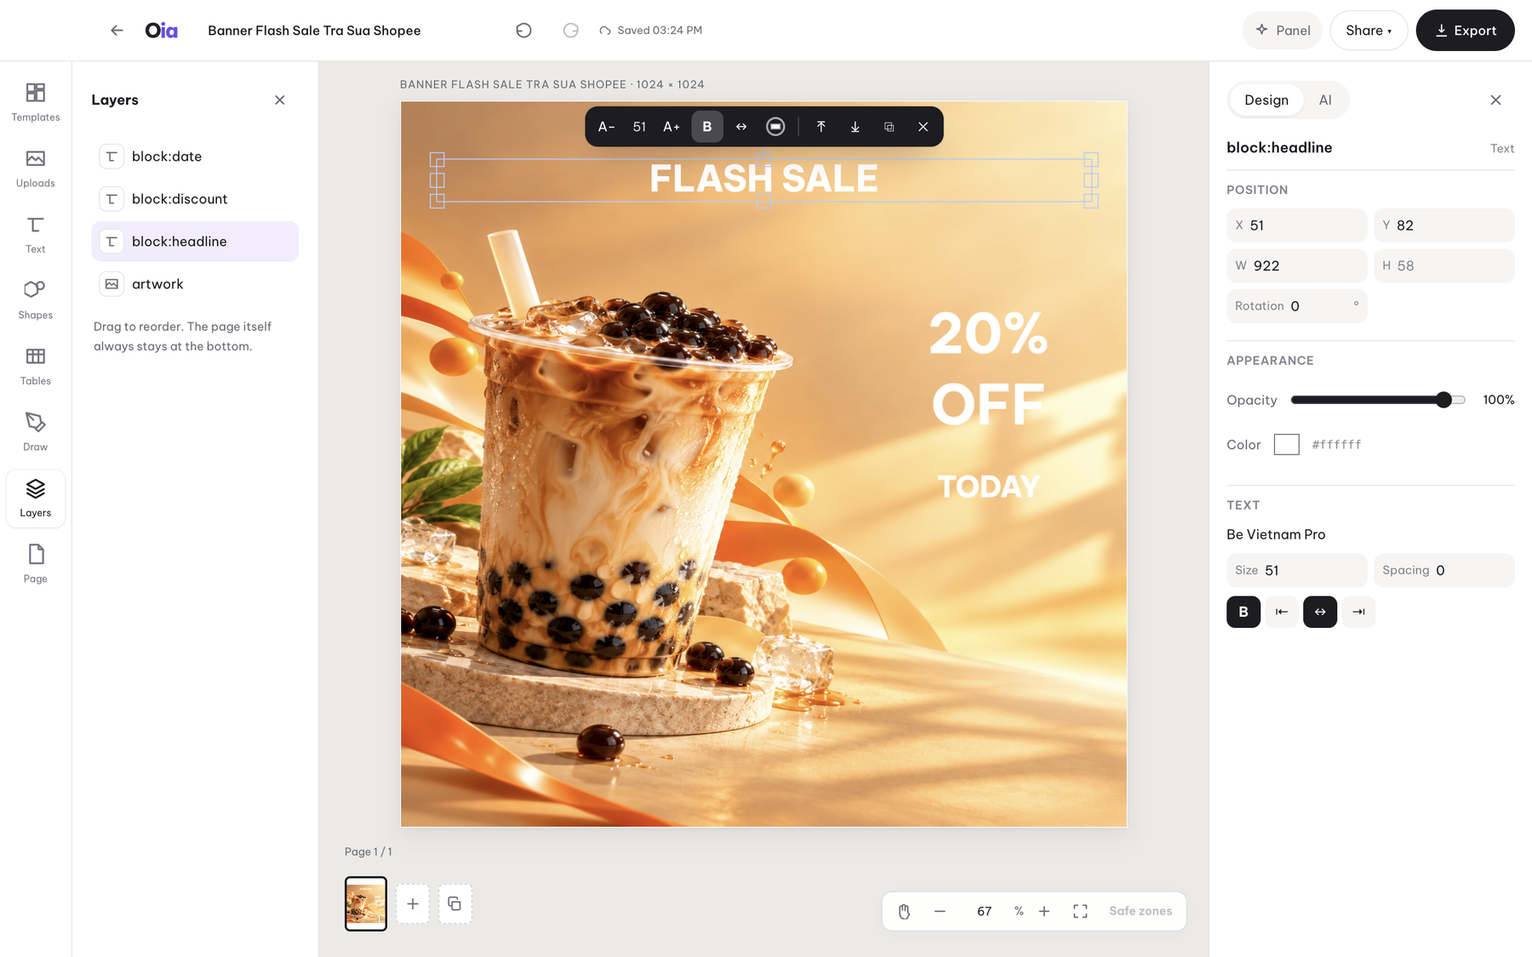
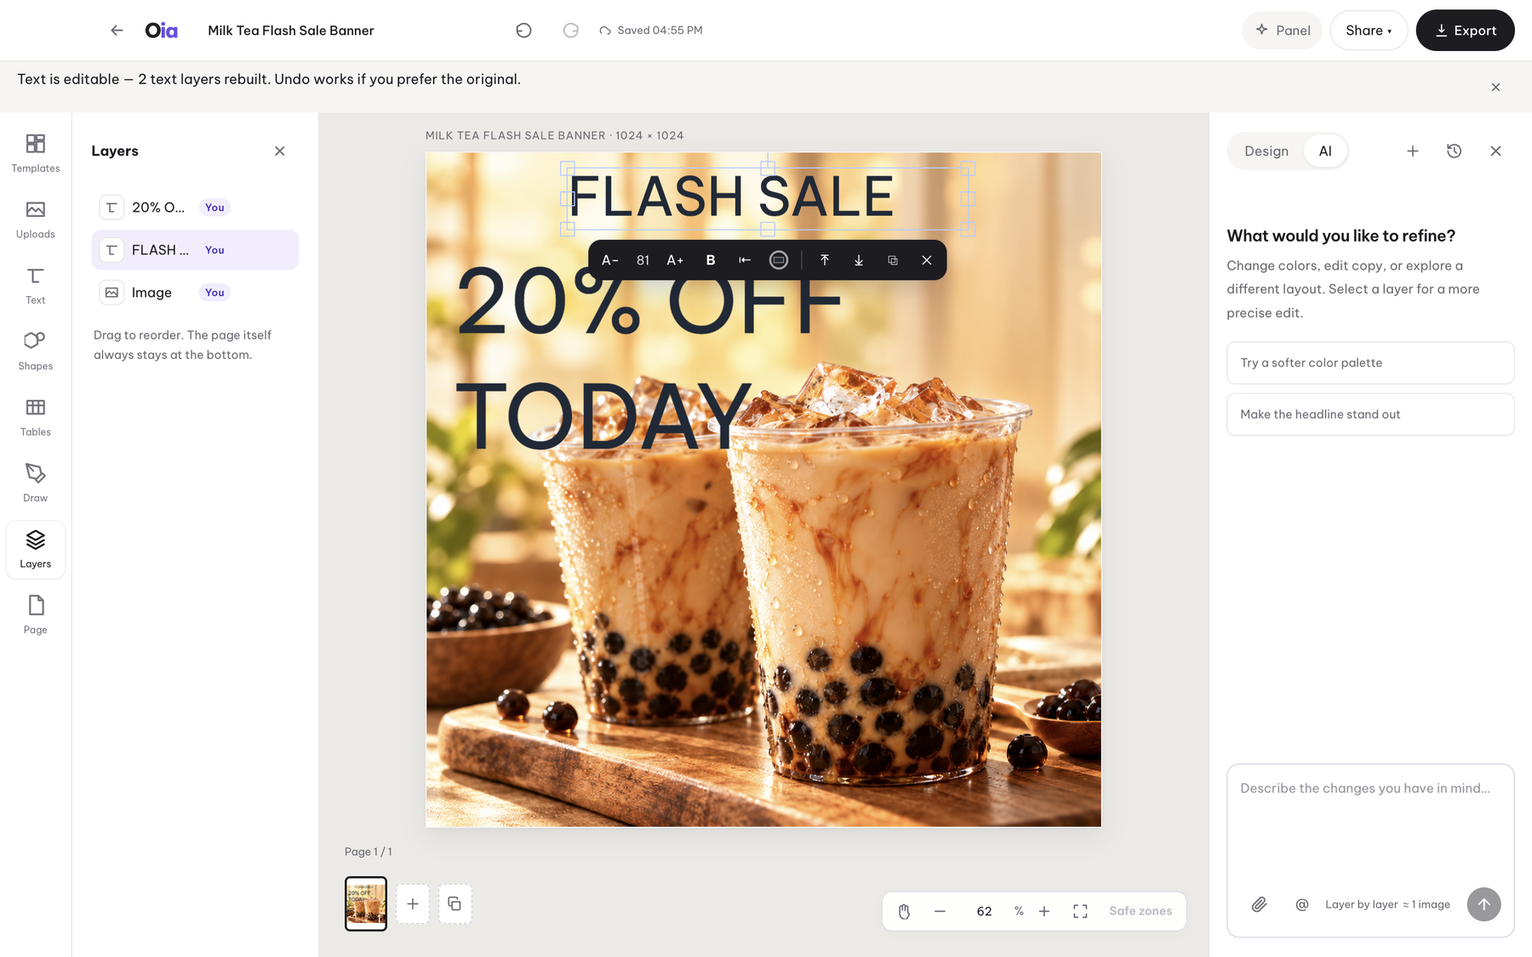
feat(d16): text-in-image by default + one-click "Make text editable" in the editor
Owner direction (2026-11-02, D16 in desktop-only-reorg.md): the
reference competitor (surgepix.ai) renders copy INTO the image with
the model's typography — our default text-layer overlays (plain
white Be Vietnam Pro bold) look bad next to it. "Xau la khong on."

Both halves already existed in the schema (TP.3 "poster" bakes vs
"clean-plate"); this wires the default and the escape hatch:

- Home composer: "Editable text right away" now defaults OFF —
  poster mode generates with the copy baked in (toggle keeps the
  clean-plate path for users who want layers immediately)
- Planner learns poster mode: put every text line into imagePrompt
  verbatim with placement/typography hints, same language as the
  request, NO blocks[]; scene builder never places overlay blocks
  in poster mode (a half-complying planner cannot double the text)
- Editor: "Make text editable" on image selections — exports the
  page, runs the deconstruct task (cost dialog: ~1 image + 1 read,
  Stop keeps watching a late result per B1 teardown), then swaps
  the page scene through replaceCurrentScene (undo/history/save
  ride the normal path); success notice reports the layer count

Trade-off recorded in D16: editing baked copy costs quota (1 image
+ 1 read) vs free text-layer edits — the price of default-beautiful
typography. Shot gate pins mode explicitly (index.ts) so nothing
broke; designer tests updated: two block-placement tests now pin
clean-plate explicitly, two new tests pin the poster contract
[…]

diff --git a/apps/desktop/src/renderer/views/Editor.tsx b/apps/desktop/src/renderer/views/Editor.tsx
@@ -1,6 +1,6 @@
 import { useCallback, useEffect, useMemo, useRef, useState, type ReactNode, Component } from "react";
 import type * as fabricNS from "fabric";
-import type { SceneCanvas, ChatEvent, Template } from "@oia/schema";
+import type { SceneCanvas, ChatEvent, Template, DeconstructText } from "@oia/schema";
 import {
   SIZE_PRESETS, SHAPES, TEXT_PRESET_SPECS, planExport, resizeWithLock,
   addPage, removePage as removePageModel, duplicatePage, blankScene, applySizeToAllPages,
@@ -20,6 +20,7 @@ import { LayersPanel } from "../components/LayersPanel.js";
 import { Inspector } from "../components/Inspector.js";
 import { ContextToolbar } from "../components/ContextToolbar.js";
 import { stepsFromTimeline } from "../lib/run-steps.js";
+import { deconstructScene } from "../lib/deconstruct-scene.js";
 import { oia, bridgeErrorMessage } from "../lib/bridge.js";
 import { clampZoom } from "../lib/zoom.js";
 import { presentErrorEn } from "../lib/errors.js";
@@ -614,6 +615,58 @@ export function Editor({ projectId: initialProjectId, onExit, onOpenProject }: E
     setRightTab("ai");
     mentionSelection();
   }
+  /** D16 poster-mode edit path: the copy is baked into the artwork — deconstruct
+   *  THIS page (≈ 1 image + 1 read) into a clean plate + native text layers.
+   *  Mirrors the Workspace B1 flow (upload → task → poll), then swaps the page
+   *  scene through replaceCurrentScene so undo/history/save all behave. */
+  const [textEditAsk, setTextEditAsk] = useState(false);
+  const [textEditBusy, setTextEditBusy] = useState(false);
+  const textEditTaskRef = useRef<string | null>(null);
+  const textEditRunRef = useRef(0);
+  async function cancelTextEdit() {
+    const id = textEditTaskRef.current;
+    if (id) await oia().cancelTask(id).catch(() => {});
+    setTextEditAsk(false);
+  }
+  async function runMakeTextEditable() {
+    const c = fabricRef.current;
+    if (!c || textEditBusy) return;
+    const myRun = ++textEditRunRef.current;
+    const size = sceneDimensions.current;
+    setTextEditBusy(true); setNotice("");
+    try {
+      // export the page as-is — the model reads exactly what the seller sees
+      const dataUrl = c.toDataURL({ format: "png", multiplier: 1, enableRetinaScaling: false });
+      const bytes = Uint8Array.from(atob(dataUrl.split(",")[1] ?? ""), (ch) => ch.charCodeAt(0));
+      const up = await oia().uploadAsset("page.png", bytes);
+      const started = await oia().submitTask("deconstruct", { fileUrl: up.url });
+      textEditTaskRef.current = started.taskId;
+      let final = started.progress === "processing" ? null : started;
+      for (let i = 0; i < 150 && !final; i++) { // 2s×150 = 5 min cap, then an honest error
+        await new Promise((r) => setTimeout(r, 2000));
+        const t = await oia().getTask(started.taskId);
+        if (!t) throw new Error("task vanished");
+        if (t.progress !== "processing") final = t;
+      }
+      if (!final) throw new Error("timed out after 5 minutes");
+      if (final.progress !== "succeeded" || !final.taskResult?.download) {
+        throw new Error(final.taskNote || final.msg || (final.progress === "failed" ? "deconstruct failed" : "the page was not changed"));
+      }
+      const texts = (final.taskResult.texts ?? []) as DeconstructText[];
+      await replaceCurrentScene(deconstructScene({ imageUrl: final.taskResult.download, w: size.width, h: size.height, texts }));
+      if (textEditRunRef.current !== myRun) return; // a newer run owns the UI
+      setTextEditAsk(false);
+      setNotice(`Text is editable — ${texts.length} text layer${texts.length === 1 ? "" : "s"} rebuilt. Undo works if you prefer the original.`);
+    } catch (e) {
+      if (textEditRunRef.current === myRun) {
+        setTextEditAsk(false);
+        setNotice(bridgeErrorMessage(e, "The text could not be made editable. Please try again."));
+      }
+    } finally {
+      textEditTaskRef.current = null;
+      if (textEditRunRef.current === myRun) setTextEditBusy(false);
+    }
+  }
   /** R5 Replace image: new pixels, same box on the page; the swapped layer becomes the user's (TP.10). */
   async function replaceSelectedImage(file: File) {
     const c = fabricRef.current;
@@ -1064,7 +1117,7 @@ export function Editor({ projectId: initialProjectId, onExit, onOpenProject }: E
               <div className="frameLabel" aria-hidden="true">{projectName || "Artboard"} · {customW} × {customH}</div>
               <div className="canvasWrap" data-transparent={activeClipFill === "transparent" ? "true" : undefined}>
                 <canvas ref={canvasElRef} width={500} height={750} />
-                <ContextToolbar canvas={canvas} onEditWithAi={editSelectionWithAi} onReplaceImage={(f) => void replaceSelectedImage(f)} onDuplicate={() => void duplicateSelection()} />
+                <ContextToolbar canvas={canvas} onEditWithAi={editSelectionWithAi} onReplaceImage={(f) => void replaceSelectedImage(f)} onDuplicate={() => void duplicateSelection()} onMakeTextEditable={() => setTextEditAsk(true)} />
                 {guidesOn && activeGuide && guideRects(activeGuide.zones, customW, customH).map((r) => (
                   <div
                     key={r.edge}
@@ -1128,6 +1181,18 @@ export function Editor({ projectId: initialProjectId, onExit, onOpenProject }: E
       </div>
 
       {/* Export dialog (BR-ED5) */}
+      {textEditAsk && (
+        <Dialog onClose={() => { if (!textEditBusy) setTextEditAsk(false); }} label="Make text editable">
+          <h3>Make this text editable?</h3>
+          <p>Oia reads the text on this page, cleans it off the artwork, and rebuilds each line as an editable text layer. Everything else stays in place.</p>
+          {!imageMock && <p className="hintP" data-testid="text-edit-cost">≈ 1 image + 1 read</p>}
+          {textEditBusy && <p className="hintP">Reading the text…</p>}
+          <div className="dialogActions">
+            <button className="secondaryBtn" onClick={() => void cancelTextEdit()}>{textEditBusy ? "Stop" : "Cancel"}</button>
+            <button className="primaryBtn" data-testid="text-edit-confirm" disabled={textEditBusy} onClick={() => void runMakeTextEditable()}>Make text editable</button>
+          </div>
+        </Dialog>
+      )}
       {exportOpen && (
         <Dialog onClose={() => setExportOpen(false)} labelledBy="export-title">
           <div className="sectionHeading"><h3 id="export-title" style={{ margin: 0 }}>Export design</h3><button autoFocus className="iconBtn" aria-label="Close export" onClick={() => setExportOpen(false)}><I d={icons.x} size={18} /></button></div>

diff --git a/packages/agent/test/designer.test.ts b/packages/agent/test/designer.test.ts
@@ -184,6 +184,37 @@ describe("BR-CTRL composer controls", () => {
     for await (const _ of runDesignerAgent({ prompt: "make it blue", referenceImages: ["https://ref/1.png"] }, { llm: llmStub, image: imgSpy })) void _;
     expect(gotRefs).toEqual(["https://ref/1.png"]);
   });
+  it("D16 poster mode: the copy is baked by the model — planner blocks are NEVER placed as overlays (no doubled text)", async () => {
+    const planWithBlocks = JSON.stringify({
+      title: "Milk tea flash sale",
+      imagePrompt: "milk tea banner with bold condensed 'FLASH SALE' and '20% OFF TODAY' rendered large",
+      blocks: [
+        { role: "headline", text: "FLASH SALE" },
+        { role: "discount", text: "20% OFF" },
+      ],
+    });
+    let sysPrompt = "";
+    const llmSpy: LlmProvider = { name: "s", capabilities: stubCaps, async isAvailable() { return { ok: true }; }, async chat(m) { sysPrompt = m[0].content; return planWithBlocks; } };
+    const evs: ChatEvent[] = [];
+    for await (const ev of runDesignerAgent({ prompt: "milk tea flash sale banner" }, { llm: llmSpy, image })) evs.push(ev);
+    expect(sysPrompt).toContain("Poster mode"); // the planner was told to bake the copy
+    const canvas = evs.flatMap((e) => e.renderData.msgMeta.filter((m) => m.type === "canvas")).at(-1) as { canvas: { objects: { type: string; name?: string }[] } } | undefined;
+    expect(canvas?.canvas.objects.filter((o) => o.type === "Textbox")).toEqual([]); // half-complying planner ≠ doubled text
+    expect(canvas?.canvas.objects.some((o) => o.name === "artwork")).toBe(true);
+  });
+  it("D16 clean-plate mode: blocks still land as editable overlays", async () => {
+    const planWithBlocks = JSON.stringify({
+      title: "Milk tea flash sale",
+      imagePrompt: "text-free milk tea banner",
+      blocks: [{ role: "discount", text: "20% OFF" }],
+    });
+    const evs: ChatEvent[] = [];
+    for await (const ev of runDesignerAgent({ prompt: "milk tea flash sale banner", mode: "clean-plate" }, { llm: stubLlmReturning(planWithBlocks), image })) evs.push(ev);
+    const canvas = evs.flatMap((e) => e.renderData.msgMeta.filter((m) => m.type === "canvas")).at(-1) as { canvas: { objects: { type: string; name?: string }[] } } | undefined;
+    const boxes = canvas?.canvas.objects.filter((o) => o.type === "Textbox") ?? [];
+    expect(boxes.length).toBe(1);
+    expect(boxes[0]).toMatchObject({ name: "block:discount" });
+  });
   it("narrative counts refs with correct pluralization — '1 reference image' / '2 reference images' (live grammar fix)", async () => {
     const imgSpy: ImageProvider = { name: "s", capabilities: stubCaps, async isAvailable() { return { ok: true }; }, async generate() { return { url: "https://x/y.png", provider: "s", model: "m" }; } };
     const llmStub: LlmProvider = { name: "s", capabilities: stubCaps, async isAvailable() { return { ok: true }; }, async chat() { return planSpy; } };
@@ -249,17 +280,17 @@ describe("STAGE-0 TP.1: blocks → named editable textboxes placed in copy zones
     expect(box.fontFamily).toBe("Be Vietnam Pro");
   });
 
-  it("legacy copy plan still yields one editable textbox (backward compat)", async () => {
+  it("legacy copy plan still yields one editable textbox (backward compat — clean-plate; D16: poster bakes, blocks never overlay)", async () => {
     const out: ChatEvent[] = [];
-    for await (const ev of runDesignerAgent({ prompt: "poster" }, { llm, image })) out.push(ev);
+    for await (const ev of runDesignerAgent({ prompt: "poster", mode: "clean-plate" }, { llm, image })) out.push(ev);
     const canvas = out.flatMap((e) => e.renderData.msgMeta).at(-1)!.canvas;
     expect(canvas.objects.filter((o) => o.type === "Textbox").map((o) => o.name)).toEqual(["block:copy"]);
   });
 
-  it("multi-page: blocks land on the FIRST page only (current pi===0 rule)", async () => {
+  it("multi-page: blocks land on the FIRST page only (current pi===0 rule, clean-plate)", async () => {
     const out: ChatEvent[] = [];
     const multi = JSON.stringify({ title: "T", imagePrompt: "p", imagePrompts: ["p1", "p2"], blocks: [{ role: "price", text: "20%" }] });
-    for await (const ev of runDesignerAgent({ prompt: "poster", pages: 2 }, { llm: stubLlmReturning(multi), image })) out.push(ev);
+    for await (const ev of runDesignerAgent({ prompt: "poster", pages: 2, mode: "clean-plate" }, { llm: stubLlmReturning(multi), image })) out.push(ev);
     const canvases = out.flatMap((e) => e.renderData.msgMeta);
     expect(canvases[0].canvas.objects.filter((o) => o.type === "Textbox")).toHaveLength(1);
     expect(canvases[1].canvas.objects.filter((o) => o.type === "Textbox")).toHaveLength(0);

diff --git a/apps/desktop/src/renderer/views/Home.tsx b/apps/desktop/src/renderer/views/Home.tsx
@@ -96,7 +96,7 @@ export function Home({ resumeSession, onOpenProject, autoFocus = false, initialP
   const [mockMode, setMockMode] = useState(false);
   /** B7 — non-empty while any store's LAST disk write failed; null once saving recovers. */
   const [writeFailures, setWriteFailures] = useState<{ file: string; failedWrites: number }[] | null>(null);
-  const [editableText, setEditableText] = useState(true); // clean-plate default ("editable text right away")
+  const [editableText, setEditableText] = useState(false); // D16: poster (text baked in-image, best-looking type) is the default; the toggle opts into clean-plate
   // C1: conversation pin (A1 VA-9) — every run on this mount joins ONE session;
   // the outline stub and the deck result land in the same conversation (OC-8)
   const [sessionId, setSessionId] = useState<number | null>(resumeSession ?? null);
@@ -481,7 +481,7 @@ export function Home({ resumeSession, onOpenProject, autoFocus = false, initialP
               {OUTLINE_SWITCH_LABEL}
             </label>
             <label className="switchRow">
-              <button type="button" role="switch" aria-checked={editableText} aria-label={MODE_TOGGLE_LABEL} title="Generated banners arrive with separate editable text layers" className={`switch ${editableText ? "on" : ""}`} onClick={() => setEditableText(!editableText)} />
+              <button type="button" role="switch" aria-checked={editableText} aria-label={MODE_TOGGLE_LABEL} title="Off: text is rendered inside the image — best-looking type; make it editable later from the editor. On: banners arrive with separate editable text layers" className={`switch ${editableText ? "on" : ""}`} onClick={() => setEditableText(!editableText)} />
               {MODE_TOGGLE_LABEL}
             </label>
           </div>

diff --git a/packages/agent/src/designer.ts b/packages/agent/src/designer.ts
@@ -206,7 +206,8 @@ export async function* runDesignerAgent(
             + (input.brandGuidance ? `\nBrand rules the output MUST follow:\n${input.brandGuidance}` : "")
             + (mode === "clean-plate"
               ? `\nClean-plate mode: the imagePrompt must describe text-free artwork (no added typography; product packaging lettering is preserved) — ALL copy goes into blocks[].`
-              : ""),
+              : `\nPoster mode (D16): the image model RENDS the copy — put every text line into imagePrompt verbatim with placement and typography hints (e.g. \"bold condensed 'FLASH SALE' across the top, '20% OFF TODAY' large beneath it\"); write ALL copy in the SAME language as the user's request — an English request gets English-only copy, never mixed; do NOT emit blocks[] — no overlay text will be added on top.`
+            ),
         },
         { role: "user", content: input.prompt },
       ],
@@ -300,8 +301,11 @@ export async function* runDesignerAgent(
         artworkW: img.width,
         artworkH: img.height,
         width, height,
-        // blocks land on the first page only — per-page blocks wait for a real ask
-        blocks: pi === 0 ? blocks : [],
+        // blocks land on the first page only — per-page blocks wait for a real ask.
+        // D16: in poster mode the copy is baked into the artwork — overlay blocks
+        // would DOUBLE the text. The planner is told not to emit them; this guard
+        // holds even when it half-complies (bakes the copy AND returns blocks).
+        blocks: pi === 0 && mode === "clean-plate" ? blocks : [],
       });
       const canvasMeta = { id: canvasId, type: "canvas" as const, thumbnail: img.url, canvas: scene };
       pages.push({ canvasId, canvasMeta });

diff --git a/apps/desktop/src/renderer/components/ContextToolbar.tsx b/apps/desktop/src/renderer/components/ContextToolbar.tsx
@@ -14,9 +14,11 @@ interface Props {
   onEditWithAi: () => void;
   onReplaceImage: (file: File) => void;
   onDuplicate: () => void;
+  /** D16: poster-mode edit path — deconstruct this page's baked text into layers. */
+  onMakeTextEditable?: () => void;
 }
 
-export function ContextToolbar({ canvas, onEditWithAi, onReplaceImage, onDuplicate }: Props) {
+export function ContextToolbar({ canvas, onEditWithAi, onReplaceImage, onDuplicate, onMakeTextEditable }: Props) {
   useCanvasRev(canvas, true);
   const fileRef = useRef<HTMLInputElement>(null);
   const active = canvas?.getActiveObject();
@@ -71,6 +73,7 @@ export function ContextToolbar({ canvas, onEditWithAi, onReplaceImage, onDuplica
           <button onClick={() => fileRef.current?.click()}>Replace</button>
           <input ref={fileRef} type="file" accept="image/*" hidden aria-label="Replacement image file" onChange={(e) => { if (e.target.files?.[0]) onReplaceImage(e.target.files[0]); e.target.value = ""; }} />
           <button className="ctxAi" data-testid="ctx-edit-ai" onClick={onEditWithAi}>✦ Edit with AI</button>
+          {onMakeTextEditable && <button data-testid="ctx-make-text-editable" title="Read the text in this artwork and rebuild it as editable layers" onClick={onMakeTextEditable}>Make text editable</button>}
           <span className="ctxSep" />
         </>
       )}

diff --git a/docs/designs/desktop-only-reorg.md b/docs/designs/desktop-only-reorg.md
@@ -23,6 +23,7 @@
 | D13 | **(owner, 2026-11-06): cài mới mặc định `auto` + consent ĐÃ ĐỒNG Ý** — zero-config cho chế độ thật: máy nào đang có codex CLI + ChatGPT login sẵn sẽ chạy codex ngay lần mở đầu tiên, không cần click nào. Ghi đè mặc định consent=false của TP-D3 (resolver không đổi — vẫn cần runtime `ready`); rủi ro được owner chấp nhận và ghi nhận: một máy lạ có codex đã login sẽ đốt quota ngay từ launch đầu. Vẫn được bảo vệ bất kể consent: không có binary / chưa login → mock; CI smoke/shot ghim mock bằng env; `codexConsent: false` tường minh vẫn được tôn trọng (opt-out ở lại là opt-out). Default sống ở hàm thuần `normalizeProvidersSettings` (shared/providers-mode.ts) + test ghim ở desktop.test.ts. |
 | D14 | **(2026-11-06, từ self-review bước 5): thêm field tùy chọn vào schema KHÔNG bump `OIA_SCHEMA_VERSION`** — additive optional (vd `sample?: boolean` trên project) là tương thích hai chiều: build cũ parse file mới được (strip field), build mới parse file cũ được (undefined). Bump CHỈ khi cần một bước migration phải chạy (thêm `from/to` vào PROJECT_MIGRATIONS) hoặc có breaking change. Lý do ghi nhận: tránh số version chạy trốn Detected meanings; quyết định trước đây sống sót trong comment code — vi phạm luật "decision sống trong doc" — nay chuyển về đây. |
 | D15 | **(owner, 2026-11-01): BỎ tool OCR (ai-image-editor) + tesseract.js khỏi sản phẩm.** Sau khi B1 deconstruct chuyển sang vision model (bỏ tesseract theo chốt 2026-10-31), tool OCR rời không còn người dùng. Xóa toàn bộ chuỗi theo nó: dependency tesseract.js, allowance CSP `https://cdn.jsdelivr.net` (origin mạng DUY NHẤT của renderer — giờ renderer fully offline, zero network origin), `blob:` trong `worker-src` (chỉ tesseract spawn blob worker; pdf.js load worker từ asset 'self'), job CI `ocr-nightly`, fixture + kịch bản shot `OIA_SHOT_OCR`. `'wasm-unsafe-eval'` GIỮ với lý do mới: pdfjs-dist 6 mang wasm decoder thật (openjpeg.wasm, jbig2.wasm) cho PDF JPX/JBIG2. Registry còn 13 tool; ppt-translator vẫn là landing duy nhất. Ghi đè câu "tool OCR sẵn có ở Tools GIỮ NGUYÊN" trong deconstruct-import.md. Bài học giữ lại: bug `res.data.words` (tool chết âm thầm từ thời web) là bằng chứng vì sao gate này từng tồn tại — lưỡi liềm gate chạy tay-một-lần vẫn đúng. |
+| D16 | **(owner, 2026-11-02): mặc định banner là CHỮ CHẴN TRONG ẢNH (mode `poster`); deconstruct thành CẦU CHỈNH SỬA ngay trong editor.** Owner so với đối thủ tham chiếu (surgepix.ai — GPT-Image-2 render chữ vào ảnh, typography đẹp): chữ layer mặc định của Oia (Be Vietnam Pro bold trắng, không styling) trông xấu cạnh họ; "xấu là không ổn". Cả hai nửa đã có sẵn trong schema từ TP.3 (`poster` bakes text vs `clean-plate` cấm chữ) — quyết định chỉ ĐỔI MẶC ĐỊNH: Home composer `editableText` mặc định false (toggle "Editable text right away" trong More giữ nguyên cho ai muốn layer ngay); lối sửa chữ cho kết quả baked: nút **"Make text editable"** trên ContextToolbar của layer ảnh trong Editor (D16 mới) — export page PNG → task `deconstruct` (≈ 1 image + 1 read, dialog xác nhận chi phí + Stop, poll giữ kết quả đã trả nếu cancel muộn — cùng teardown B1) → `replaceCurrentScene(deconstructScene(...))` (undo/history/save đi đường thường). Trade-off được ghi nhận: sửa chữ trên banner baked tốn quota (1 image + 1 read) so với sửa text layer miễn phí — giá của typography đẹp theo mặc định; thesis "text is a native object" không chết: nó là lối thoát (escape hatch) chứ không còn là mặt định. Shot gate pin `mode` tường minh (index.ts:498) nên không vỡ. |
 
 ## Loopback API spec (D9 — đầy đủ, hấp thụ review điểm 3)
 

diff --git a/README.md b/README.md
@@ -28,9 +28,9 @@ Everything runs on your machine. Bring your own supported provider. Keep your pr
 ## What editable actually means
 
 <p align="center">
-  <img src="docs/screenshots/editor.png" width="100%" alt="Real Oia editor with a generated milk-tea flash-sale banner: the FLASH SALE headline is selected as a native text object, Layers panel open, Design inspector showing position and text properties.">
+  <img src="docs/screenshots/editor.png" width="100%" alt="Real Oia editor after one “Make text editable” click: FLASH SALE and 20% OFF TODAY are editable text layers over the cleaned artwork, Layers panel open, selection toolbar active.">
   <br>
-  <sub>Actual editor, real Codex generation. The selected headline is a text object—not lettering baked into the photograph.</sub>
+  <sub>Actual editor, real Codex generation. Text is rendered into the artwork by the image model — one click rebuilds it as editable layers.</sub>
 </p>
 
 **The image and the design are different things.** An Oia document contains separate canvas objects:
@@ -44,7 +44,7 @@ Everything runs on your machine. Bring your own supported provider. Keep your pr
 
 Move a native headline without moving the photograph. Fix its wording without calling an image model. Duplicate a page and adapt the copy for another placement. Undo changes and let autosave preserve the project.
 
-> **Layers, not magic image decomposition.** Oia does not turn every object or letter inside a generated image into an editable layer. Generated scenes currently contain an artwork image and, when supplied by the planner, a separate copy textbox on the first page. Bundled templates include more deliberately composed text and shape objects. Text already embedded in the artwork remains pixels.
+> **Text in the image, by default (D16).** Generations render the copy into the artwork with the image model's typography (best-looking results). Two paths keep text editable: flip **“Editable text right away”** in the composer before generating (clean-plate artwork + native text layers), or — on any baked design — select the artwork and click **“Make text editable”** (reads the text with your provider, ≈ 1 image + 1 read, rebuilds each line as a layer). Text already embedded in an imported image is pixels until you run the same command.
 
 ## A studio around your image model
 
